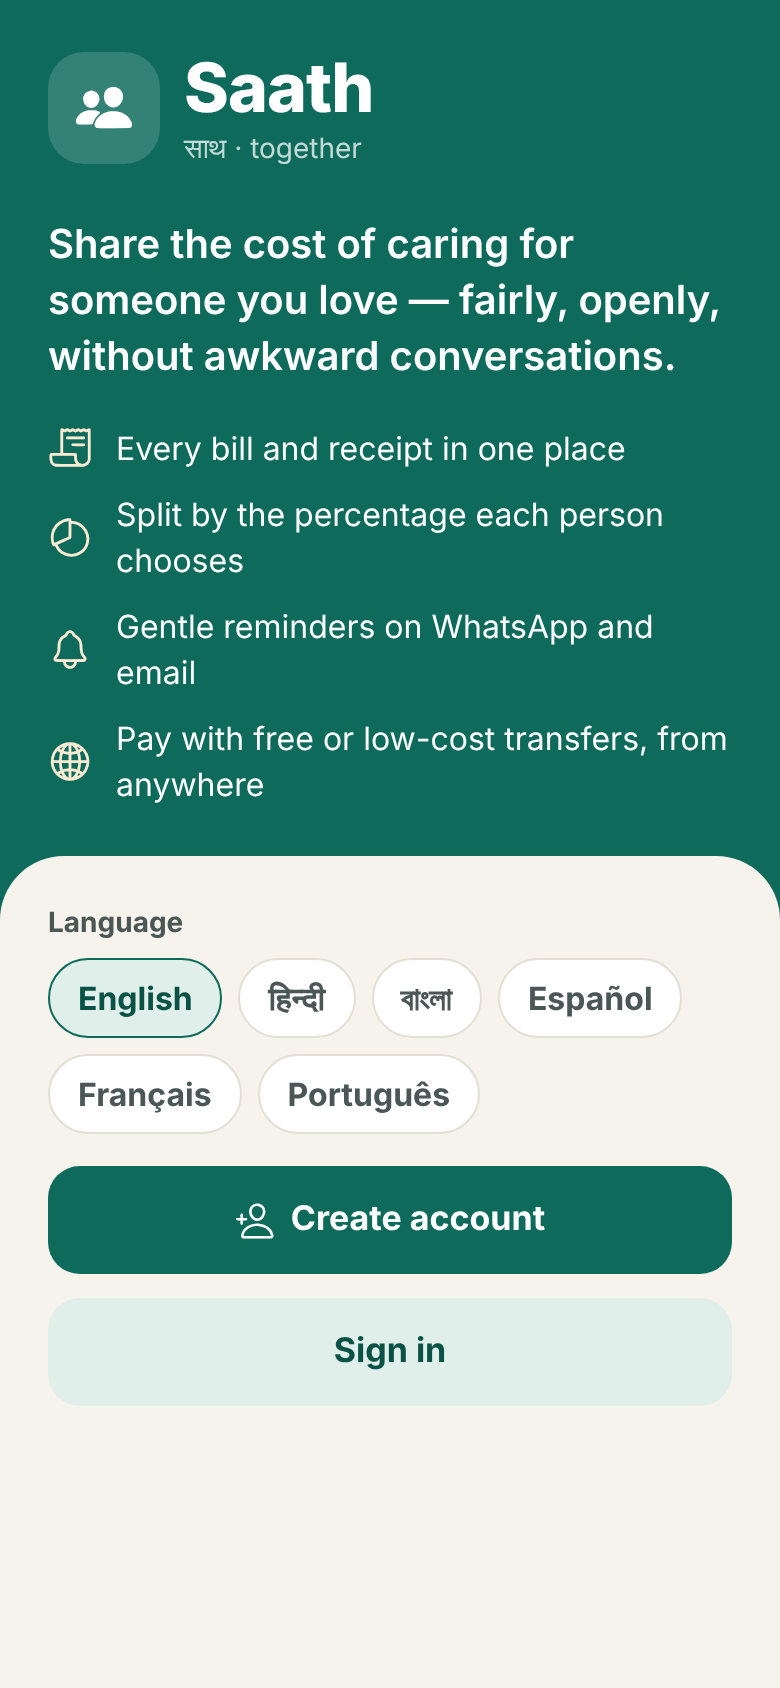
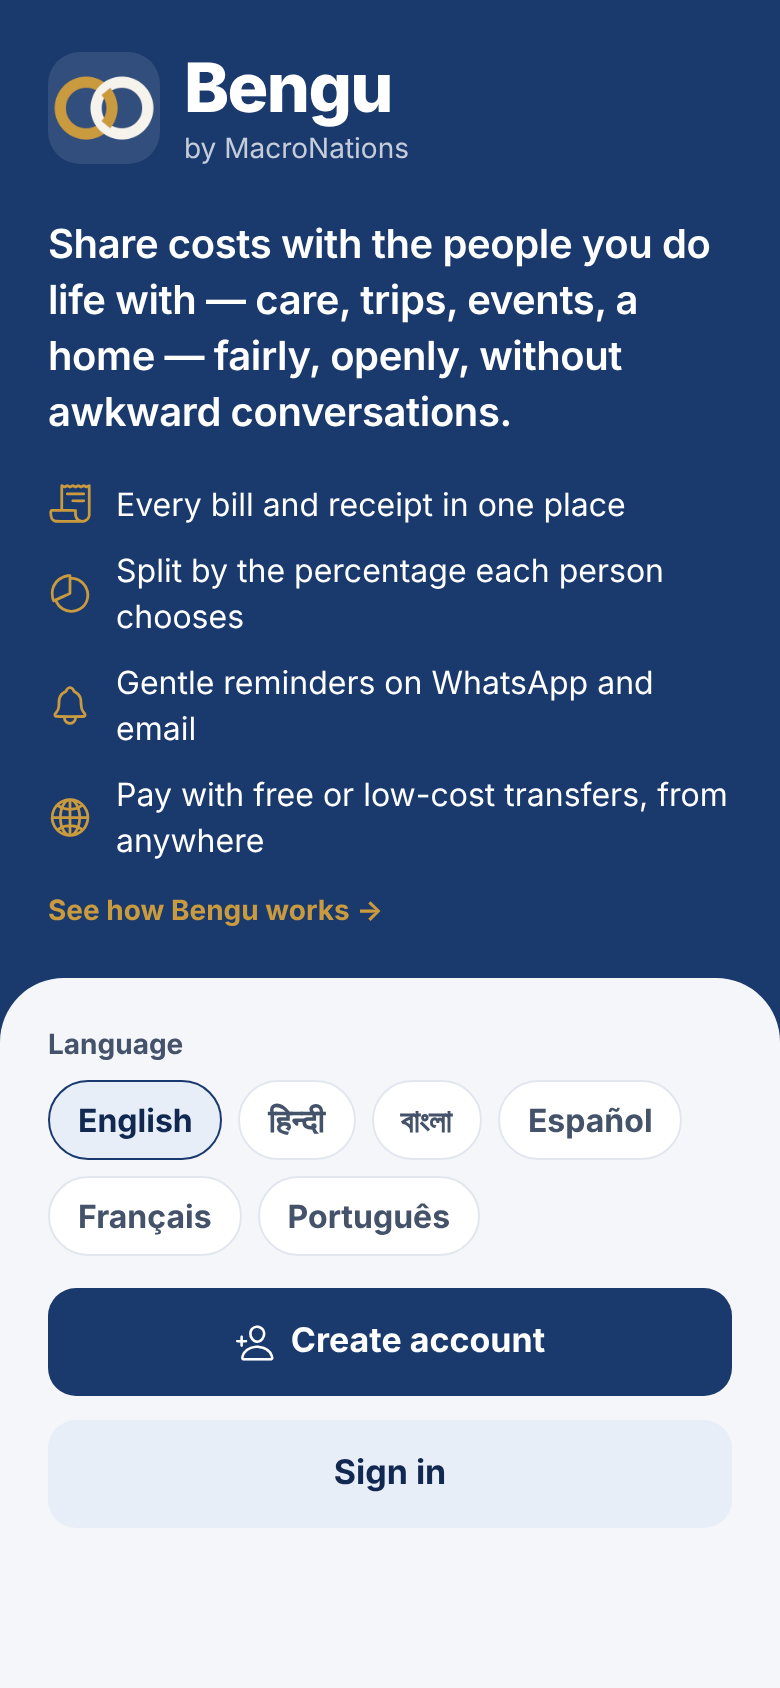
bengu app
bengu app

diff --git a/supabase/functions/saath-remind/index.ts b/supabase/functions/saath-remind/index.ts
@@ -4,7 +4,7 @@
 //   * manual:    the app POSTs {circle_id} with the organiser's JWT
 // Secrets:
 //   WHATSAPP_TOKEN, WHATSAPP_PHONE_NUMBER_ID   (Meta WhatsApp Cloud API; optional)
-//   WHATSAPP_TEMPLATE  (default "saath_dues_reminder"; 4 body params: name, circle, amount, due date)
+//   WHATSAPP_TEMPLATE  (default "bengu_dues_reminder"; 4 body params: name, circle, amount, due date)
 //   RESEND_API_KEY (already set), SAATH_EMAIL_FROM (optional)
 // The cron key lives in Supabase Vault (saath_cron_secret), checked via saath_check_cron().
 // If a channel isn't configured the attempt is logged as "skipped" — nothing breaks.
@@ -31,28 +31,28 @@ const WA_LANG: Record<string, string> = { en: "en", hi: "hi", es: "es", fr: "fr"
 
 const TXT: Record<string, { subject: (c: string) => string; body: (n: string, c: string, a: string, d: string, pay: string) => string }> = {
   en: {
-    subject: (c) => `Saath reminder: your share for ${c}`,
-    body: (n, c, a, d, pay) => `Hello ${n},\n\nThis is a friendly reminder from Saath for "${c}".\nYour share currently due is ${a} (by ${d}).\n${pay}\nOnce you have paid, please mark it in the Saath app so everyone can see it.\n\nThank you for being there.\n— Saath`,
+    subject: (c) => `Bengu reminder: your share for ${c}`,
+    body: (n, c, a, d, pay) => `Hello ${n},\n\nThis is a friendly reminder from Bengu for "${c}".\nYour share currently due is ${a} (by ${d}).\n${pay}\nOnce you have paid, please mark it in the Bengu app so everyone can see it.\n\nThank you for being there.\n— Bengu`,
   },
   hi: {
-    subject: (c) => `साथ अनुस्मारक: ${c} में आपका हिस्सा`,
-    body: (n, c, a, d, pay) => `नमस्ते ${n},\n\n"${c}" के लिए साथ की ओर से एक विनम्र अनुस्मारक।\nआपका बकाया हिस्सा ${a} है (${d} तक)।\n${pay}\nभुगतान के बाद कृपया साथ ऐप में दर्ज करें ताकि सभी देख सकें।\n\nसाथ देने के लिए धन्यवाद।\n— साथ`,
+    subject: (c) => `Bengu अनुस्मारक: ${c} में आपका हिस्सा`,
+    body: (n, c, a, d, pay) => `नमस्ते ${n},\n\n"${c}" के लिए Bengu की ओर से एक विनम्र अनुस्मारक।\nआपका बकाया हिस्सा ${a} है (${d} तक)।\n${pay}\nभुगतान के बाद कृपया Bengu ऐप में दर्ज करें ताकि सभी देख सकें।\n\nसाथ देने के लिए धन्यवाद।\n— Bengu`,
   },
   es: {
-    subject: (c) => `Recordatorio de Saath: tu parte de ${c}`,
-    body: (n, c, a, d, pay) => `Hola ${n}:\n\nTe recordamos desde Saath para "${c}".\nTu parte pendiente es ${a} (antes del ${d}).\n${pay}\nCuando pagues, márcalo en la app Saath para que todos lo vean.\n\nGracias por estar ahí.\n— Saath`,
+    subject: (c) => `Recordatorio de Bengu: tu parte de ${c}`,
+    body: (n, c, a, d, pay) => `Hola ${n}:\n\nTe recordamos desde Bengu para "${c}".\nTu parte pendiente es ${a} (antes del ${d}).\n${pay}\nCuando pagues, márcalo en la app Bengu para que todos lo vean.\n\nGracias por estar ahí.\n— Bengu`,
   },
   fr: {
-    subject: (c) => `Rappel Saath : votre part pour ${c}`,
-    body: (n, c, a, d, pay) => `Bonjour ${n},\n\nPetit rappel de Saath pour « ${c} ».\nVotre part à régler est de ${a} (avant le ${d}).\n${pay}\nUne fois payé, indiquez-le dans l'application Saath pour que tout le monde le voie.\n\nMerci de votre soutien.\n— Saath`,
+    subject: (c) => `Rappel Bengu : votre part pour ${c}`,
+    body: (n, c, a, d, pay) => `Bonjour ${n},\n\nPetit rappel de Bengu pour « ${c} ».\nVotre part à régler est de ${a} (avant le ${d}).\n${pay}\nUne fois payé, indiquez-le dans l'application Bengu pour que tout le monde le voie.\n\nMerci de votre soutien.\n— Bengu`,
   },
   pt: {
-    subject: (c) => `Lembrete do Saath: sua parte de ${c}`,
-    body: (n, c, a, d, pay) => `Olá ${n},\n\nUm lembrete do Saath para "${c}".\nSua parte pendente é ${a} (até ${d}).\n${pay}\nDepois de pagar, registre no app Saath para que todos vejam.\n\nObrigado pelo apoio.\n— Saath`,
+    subject: (c) => `Lembrete do Bengu: sua parte de ${c}`,
+    body: (n, c, a, d, pay) => `Olá ${n},\n\nUm lembrete do Bengu para "${c}".\nSua parte pendente é ${a} (até ${d}).\n${pay}\nDepois de pagar, registre no app Bengu para que todos vejam.\n\nObrigado pelo apoio.\n— Bengu`,
   },
   bn: {
-    subject: (c) => `সাথ অনুস্মারক: ${c}-এ আপনার অংশ`,
-    body: (n, c, a, d, pay) => `নমস্কার ${n},\n\n"${c}"-এর জন্য সাথ থেকে একটি অনুস্মারক।\nআপনার বকেয়া অংশ ${a} (${d}-এর মধ্যে)।\n${pay}\nপরিশোধের পর অনুগ্রহ করে সাথ অ্যাপে চিহ্নিত করুন যাতে সবাই দেখতে পান।\n\nপাশে থাকার জন্য ধন্যবাদ।\n— সাথ`,
+    subject: (c) => `Bengu অনুস্মারক: ${c}-এ আপনার অংশ`,
+    body: (n, c, a, d, pay) => `নমস্কার ${n},\n\n"${c}"-এর জন্য Bengu থেকে একটি অনুস্মারক।\nআপনার বকেয়া অংশ ${a} (${d}-এর মধ্যে)।\n${pay}\nপরিশোধের পর অনুগ্রহ করে Bengu অ্যাপে চিহ্নিত করুন যাতে সবাই দেখতে পান।\n\nপাশে থাকার জন্য ধন্যবাদ।\n— Bengu`,
   },
 };
 const PAY_HDR: Record<string, string> = { en: "You can pay to:", hi: "आप यहाँ भुगतान कर सकते हैं:", es: "Puedes pagar a:", fr: "Vous pouvez payer à :", pt: "Você pode pagar para:", bn: "আপনি এখানে পরিশোধ করতে পারেন:" };
@@ -82,7 +82,7 @@ async function sendWhatsApp(it: Item, l: string) {
   if (!token || !phoneId) return { status: "skipped", detail: "whatsapp not configured" };
   if (!it.phone) return { status: "skipped", detail: "no phone" };
   const to = it.phone.replace(/[^\d]/g, "");
-  const template = Deno.env.get("WHATSAPP_TEMPLATE") ?? "saath_dues_reminder";
+  const template = Deno.env.get("WHATSAPP_TEMPLATE") ?? "bengu_dues_reminder";
   const params = [it.name, it.circle, money(it.amount, it.currency, l), day(it.due_date, l)]
     .map((text) => ({ type: "text", text }));
   const call = (code: string) => fetch(`https://graph.facebook.com/v21.0/${phoneId}/messages`, {
@@ -102,7 +102,7 @@ async function sendEmail(it: Item, l: string, pay: string) {
   const key = Deno.env.get("RESEND_API_KEY");
   if (!key) return { status: "skipped", detail: "email not configured" };
   if (!it.mail) return { status: "skipped", detail: "no email" };
-  const from = Deno.env.get("SAATH_EMAIL_FROM") ?? "Saath <onboarding@resend.dev>";
+  const from = Deno.env.get("SAATH_EMAIL_FROM") ?? "Bengu <onboarding@resend.dev>";
   const t = TXT[l];
   const r = await fetch("https://api.resend.com/emails", {
     method: "POST",

diff --git a/supabase/functions/saath-reset/index.ts b/supabase/functions/saath-reset/index.ts
@@ -1,9 +1,9 @@
-// saath-reset — Saath-branded password reset with a 6-digit code by e-mail.
+// saath-reset — Bengu-branded password reset with a 6-digit code by e-mail.
 // Deploy with verify_jwt = false.
 //   { action: "send",   email, language }
 //   { action: "verify", email, code, new_password }
 // Needs RESEND_API_KEY (already a project secret). Optional SAATH_EMAIL_FROM,
-// e.g. "Saath <saath@macronations.com>" once that domain is verified in Resend.
+// e.g. "Bengu <saath@macronations.com>" once that domain is verified in Resend.
 import { createClient } from "npm:@supabase/supabase-js@2";
 
 const cors = {
@@ -18,12 +18,12 @@ const admin = createClient(Deno.env.get("SUPABASE_URL")!, Deno.env.get("SUPABASE
 });
 
 const T: Record<string, { subject: string; body: (c: string) => string }> = {
-  en: { subject: "Your Saath reset code", body: (c) => `Your Saath password reset code is ${c}. It expires in 15 minutes. If you did not ask for this, you can ignore this e-mail.` },
-  hi: { subject: "आपका साथ रीसेट कोड", body: (c) => `आपका साथ पासवर्ड रीसेट कोड ${c} है। यह 15 मिनट में समाप्त हो जाएगा। अगर आपने यह अनुरोध नहीं किया, तो इस ई-मेल को अनदेखा करें।` },
-  es: { subject: "Tu código de Saath", body: (c) => `Tu código para restablecer la contraseña de Saath es ${c}. Caduca en 15 minutos. Si no lo solicitaste, ignora este correo.` },
-  fr: { subject: "Votre code Saath", body: (c) => `Votre code de réinitialisation Saath est ${c}. Il expire dans 15 minutes. Si vous n'êtes pas à l'origine de cette demande, ignorez cet e-mail.` },
-  pt: { subject: "Seu código do Saath", body: (c) => `Seu código para redefinir a senha do Saath é ${c}. Ele expira em 15 minutos. Se você não pediu isso, ignore este e-mail.` },
-  bn: { subject: "আপনার সাথ রিসেট কোড", body: (c) => `আপনার সাথ পাসওয়ার্ড রিসেট কোড ${c}। এটি ১৫ মিনিটে মেয়াদ শেষ হবে। আপনি অনুরোধ না করলে এই ই-মেইলটি উপেক্ষা করুন।` },
+  en: { subject: "Your Bengu reset code", body: (c) => `Your Bengu password reset code is ${c}. It expires in 15 minutes. If you did not ask for this, you can ignore this e-mail.` },
+  hi: { subject: "आपका Bengu रीसेट कोड", body: (c) => `आपका Bengu पासवर्ड रीसेट कोड ${c} है। यह 15 मिनट में समाप्त हो जाएगा। अगर आपने यह अनुरोध नहीं किया, तो इस ई-मेल को अनदेखा करें।` },
+  es: { subject: "Tu código de Bengu", body: (c) => `Tu código para restablecer la contraseña de Bengu es ${c}. Caduca en 15 minutos. Si no lo solicitaste, ignora este correo.` },
+  fr: { subject: "Votre code Bengu", body: (c) => `Votre code de réinitialisation Bengu est ${c}. Il expire dans 15 minutes. Si vous n'êtes pas à l'origine de cette demande, ignorez cet e-mail.` },
+  pt: { subject: "Seu código do Bengu", body: (c) => `Seu código para redefinir a senha do Bengu é ${c}. Ele expira em 15 minutos. Se você não pediu isso, ignore este e-mail.` },
+  bn: { subject: "আপনার Bengu রিসেট কোড", body: (c) => `আপনার Bengu পাসওয়ার্ড রিসেট কোড ${c}। এটি ১৫ মিনিটে মেয়াদ শেষ হবে। আপনি অনুরোধ না করলে এই ই-মেইলটি উপেক্ষা করুন।` },
 };
 
 async function sha(s: string) {
@@ -55,7 +55,7 @@ Deno.serve(async (req) => {
       });
       const key = Deno.env.get("RESEND_API_KEY");
       if (!key) return json({ error: "email_not_configured" }, 503);
-      const from = Deno.env.get("SAATH_EMAIL_FROM") ?? "Saath <onboarding@resend.dev>";
+      const from = Deno.env.get("SAATH_EMAIL_FROM") ?? "Bengu <onboarding@resend.dev>";
       const r = await fetch("https://api.resend.com/emails", {
         method: "POST",
         headers: { Authorization: `Bearer ${key}`, "Content-Type": "application/json" },

diff --git a/supabase/functions/_shared/guard.ts b/supabase/functions/_shared/guard.ts
@@ -1,4 +1,4 @@
-// Spend guardrails for Saath AI calls: global daily cap, per-circle monthly cap, daily and hourly limits,
+// Spend guardrails for Bengu AI calls: global daily cap, per-circle monthly cap, daily and hourly limits,
 // and a once-a-day spend alert. Settings live in public.saath_ai_config (service role only).
 
 const DEFAULTS: Record<string, any> = {
@@ -41,10 +41,10 @@ export async function guard(admin: any, cfg: Record<string, any>, o: { circleId:
     return no(503, "scan_off", "Bill reading is switched off for now. Please enter the bill by hand.");
   if (o.kind === "check" && cfg.bill_check_ai_enabled === false)
     return no(503, "ai_off", "The AI part of Bill Check is switched off for now; the basic checks still ran.");
-  // per-circle access: Saath Plus, free trial, or the admin's switch for this circle
+  // per-circle access: Bengu Plus, free trial, or the admin's switch for this circle
   if (ai && !ai.enabled) {
     if (ai.reason === "admin_off") return no(403, "ai_off_circle", "AI features are switched off for this circle. You can still add bills by hand.");
-    return no(402, "plus_required", "AI bill reading is part of Saath Plus. You can still add bills by hand, and the basic checks still run.");
+    return no(402, "plus_required", "AI bill reading is part of Bengu Plus. You can still add bills by hand, and the basic checks still run.");
   }
 
   const { data: day } = await admin.rpc("saath_ai_day_cost");
@@ -78,7 +78,7 @@ export async function afterCalls(admin: any, cfg: Record<string, any>) {
   try {
     const { data: day } = await admin.rpc("saath_ai_day_cost");
     if (Number(day ?? 0) >= Number(cfg.alert_daily_usd))
-      await alert(admin, cfg, "daily_spend", null, Number(day), `Saath AI spend today (UTC) has passed $${cfg.alert_daily_usd}: now $${Number(day).toFixed(4)}.`);
+      await alert(admin, cfg, "daily_spend", null, Number(day), `Bengu AI spend today (UTC) has passed $${cfg.alert_daily_usd}: now $${Number(day).toFixed(4)}.`);
   } catch (_) { /* never block */ }
 }
 
@@ -96,8 +96,8 @@ async function alert(admin: any, cfg: Record<string, any>, kind: string, circleI
         method: "POST",
         headers: { Authorization: `Bearer ${key}`, "Content-Type": "application/json" },
         body: JSON.stringify({
-          from: Deno.env.get("SAATH_EMAIL_FROM") ?? "Saath <onboarding@resend.dev>", to: [to],
-          subject: `Saath AI alert: ${kind.replace(/_/g, " ")}`,
+          from: Deno.env.get("SAATH_EMAIL_FROM") ?? "Bengu <onboarding@resend.dev>", to: [to],
+          subject: `Bengu AI alert: ${kind.replace(/_/g, " ")}`,
           text: `${detail}\n\nSee table saath_ai_alerts and view saath_ai_v_daily in Supabase (project strategyarena).`,
         }),
       });

diff --git a/supabase/functions/saath-check-next/index.ts b/supabase/functions/saath-check-next/index.ts
@@ -3,7 +3,7 @@
 //   (a) rules in code — free: arithmetic, above-MRP, expired stock, GSTIN checksum, duplicates, dates, patient name;
 //   (b) forensic read — reuses the scan's read of the same file when there is one; otherwise Haiku reads it.
 //       Sonnet re-reads only for high-value bills, poor copies, or reads that don't add up (manual checks only);
-//   (c) local price check — what Saath users paid locally first; web search only for the top items above a
+//   (c) local price check — what Bengu users paid locally first; web search only for the top items above a
 //       minimum amount, when local data is thin, never on automatic runs, and only on the paid plan when
 //       SAATH_BILL_CHECK_PAID=true. Results cached 30 days per item + city, shared across circles.
 // Deploy with verify_jwt = true. Body: { expense_id, language?, auto? }
@@ -320,7 +320,7 @@ Deno.serve(async (req) => {
     if (!g.ok && !["ai_limit_reached", "ai_paused", "ai_off", "ai_off_circle", "plus_required"].includes(g.error ?? "")) return json({ error: g.error, message: g.message, ai: { allowance: g.allowance } }, g.status ?? 429);
     // paid switch: env secret or admin console (Features → Bill Check only on Plus)
     const PAID = PAID_ENV || cfg.bill_check_paid === true;
-    if (PAID && !ownerKey && circle?.plan !== "plus") return json({ error: "upgrade_required", message: "Bill Check is part of Saath Plus." }, 402);
+    if (PAID && !ownerKey && circle?.plan !== "plus") return json({ error: "upgrade_required", message: "Bill Check is part of Bengu Plus." }, 402);
     const aiAllowed = g.ok;
     const webAllowed = aiAllowed && !auto && cfg.price_web_enabled !== false && (!PAID || circle?.plan === "plus");
 

diff --git a/supabase/functions/saath-check/index.ts b/supabase/functions/saath-check/index.ts
@@ -3,7 +3,7 @@
 //   (a) rules in code — free: arithmetic, above-MRP, expired stock, GSTIN checksum, duplicates, dates, patient name;
 //   (b) forensic read — reuses the scan's read of the same file when there is one; otherwise Haiku reads it.
 //       Sonnet re-reads only for high-value bills, poor copies, or reads that don't add up (manual checks only);
-//   (c) local price check — what Saath users paid locally first; web search only for the top items above a
+//   (c) local price check — what Bengu users paid locally first; web search only for the top items above a
 //       minimum amount, when local data is thin, never on automatic runs, and only on the paid plan when
 //       SAATH_BILL_CHECK_PAID=true. Results cached 30 days per item + city, shared across circles.
 // Deploy with verify_jwt = true. Body: { expense_id, language?, auto? }
@@ -320,7 +320,7 @@ Deno.serve(async (req) => {
     if (!g.ok && !["ai_limit_reached", "ai_paused", "ai_off", "ai_off_circle", "plus_required"].includes(g.error ?? "")) return json({ error: g.error, message: g.message, ai: { allowance: g.allowance } }, g.status ?? 429);
     // paid switch: env secret or admin console (Features → Bill Check only on Plus)
     const PAID = PAID_ENV || cfg.bill_check_paid === true;
-    if (PAID && !ownerKey && circle?.plan !== "plus") return json({ error: "upgrade_required", message: "Bill Check is part of Saath Plus." }, 402);
+    if (PAID && !ownerKey && circle?.plan !== "plus") return json({ error: "upgrade_required", message: "Bill Check is part of Bengu Plus." }, 402);
     const aiAllowed = g.ok;
     const webAllowed = aiAllowed && !auto && cfg.price_web_enabled !== false && (!PAID || circle?.plan === "plus");
 

diff --git a/supabase/functions/saath-account/index.ts b/supabase/functions/saath-account/index.ts
@@ -2,7 +2,7 @@
 // Deploy with verify_jwt = true.  Body: { action: "delete" }
 // Keeps the family's shared ledger intact: the person's member rows are
 // anonymised ("Former member"), not removed, so totals stay correct for others.
-// The login itself is removed only if it was created by Saath — this project's
+// The login itself is removed only if it was created by Bengu — this project's
 // auth is shared with MacroNations courses, and a course login must survive.
 import { createClient } from "npm:@supabase/supabase-js@2";
 

diff --git a/supabase/functions/_shared/ai_usage.ts b/supabase/functions/_shared/ai_usage.ts
@@ -1,4 +1,4 @@
-// Records every Anthropic call Saath makes into public.saath_ai_usage, with cost.
+// Records every Anthropic call Bengu makes into public.saath_ai_usage, with cost.
 // Prices: USD per million tokens, from platform.claude.com/docs/en/about-claude/pricing (checked 6 Nov 2026).
 // Haiku 5.5 is tiered: a request whose whole prompt (input + cache reads + cache writes) is over 100,000 tokens
 // pays the higher row for ALL of its tokens. Web search: $10 per 1,000 searches.

diff --git a/supabase/functions/saath-signup/index.ts b/supabase/functions/saath-signup/index.ts
@@ -1,4 +1,4 @@
-// saath-signup — creates a Saath account without the shared project's
+// saath-signup — creates a Bengu account without the shared project's
 // confirmation e-mail (that template is branded for MacroNations courses).
 // Deploy with verify_jwt = false.  Body: { email, password, full_name, language }
 import { createClient } from "npm:@supabase/supabase-js@2";
